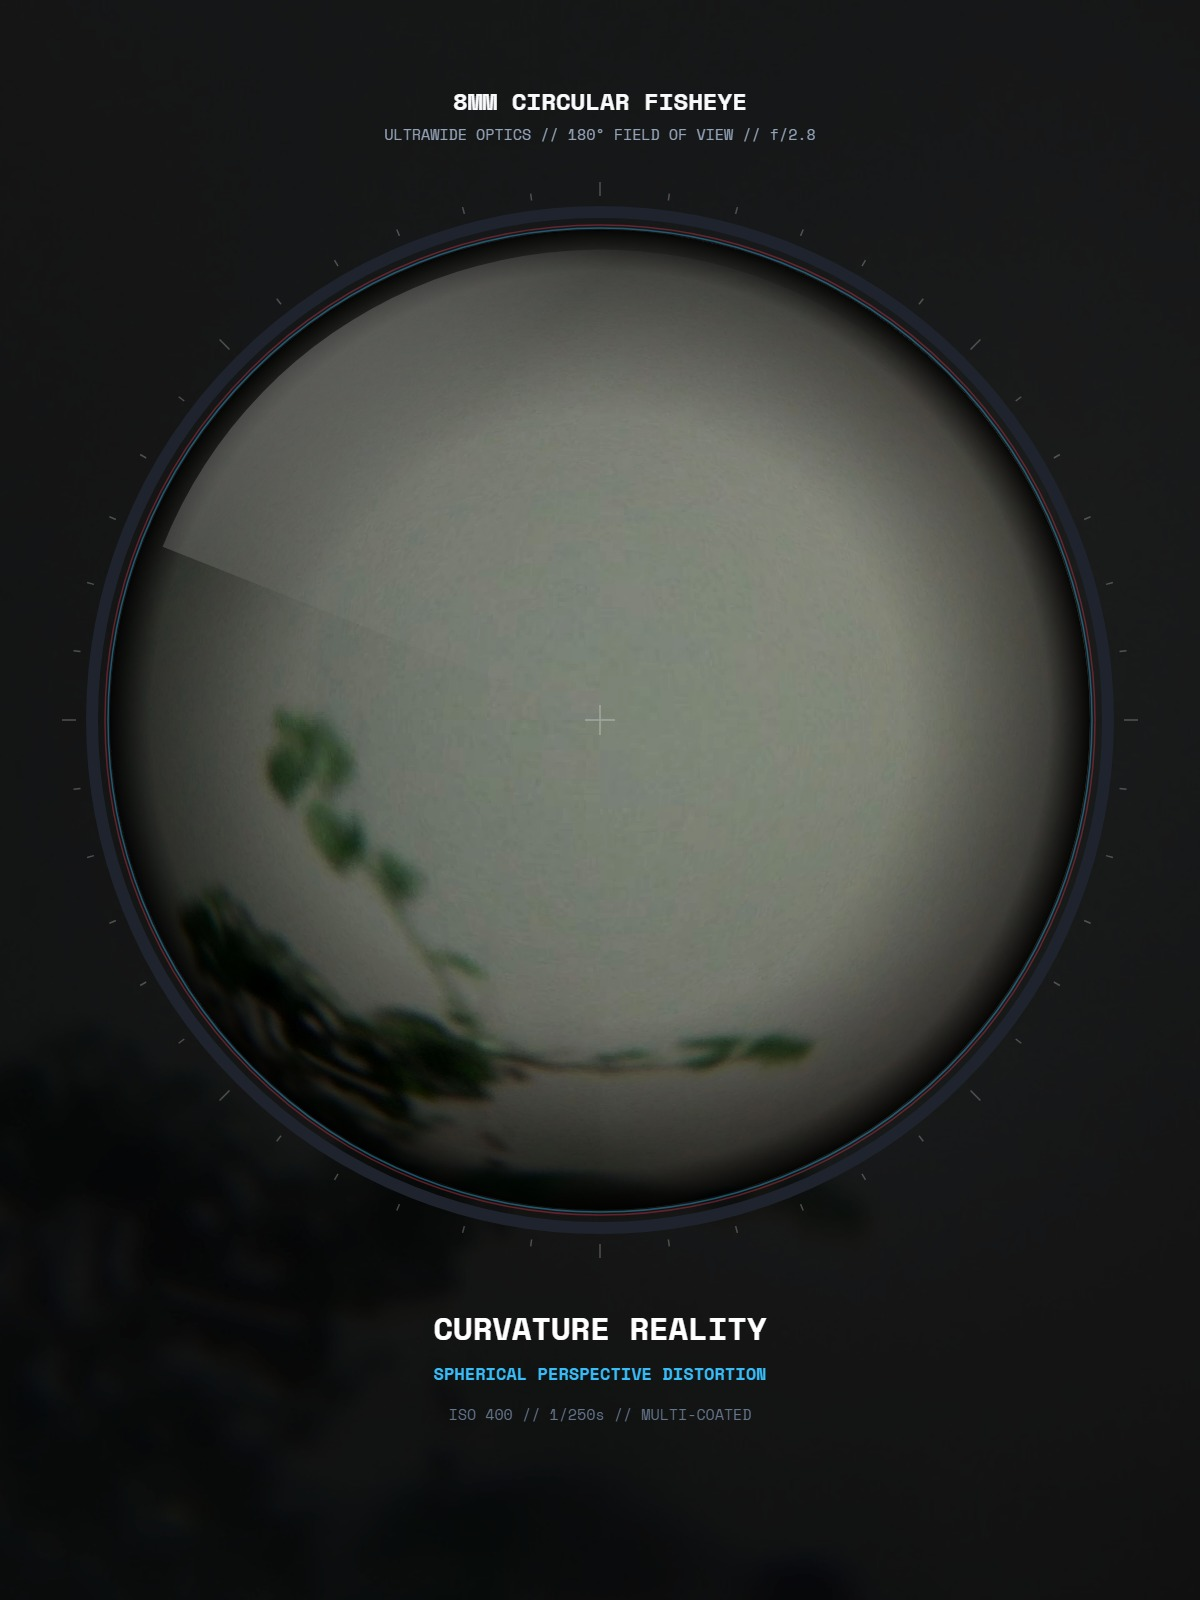
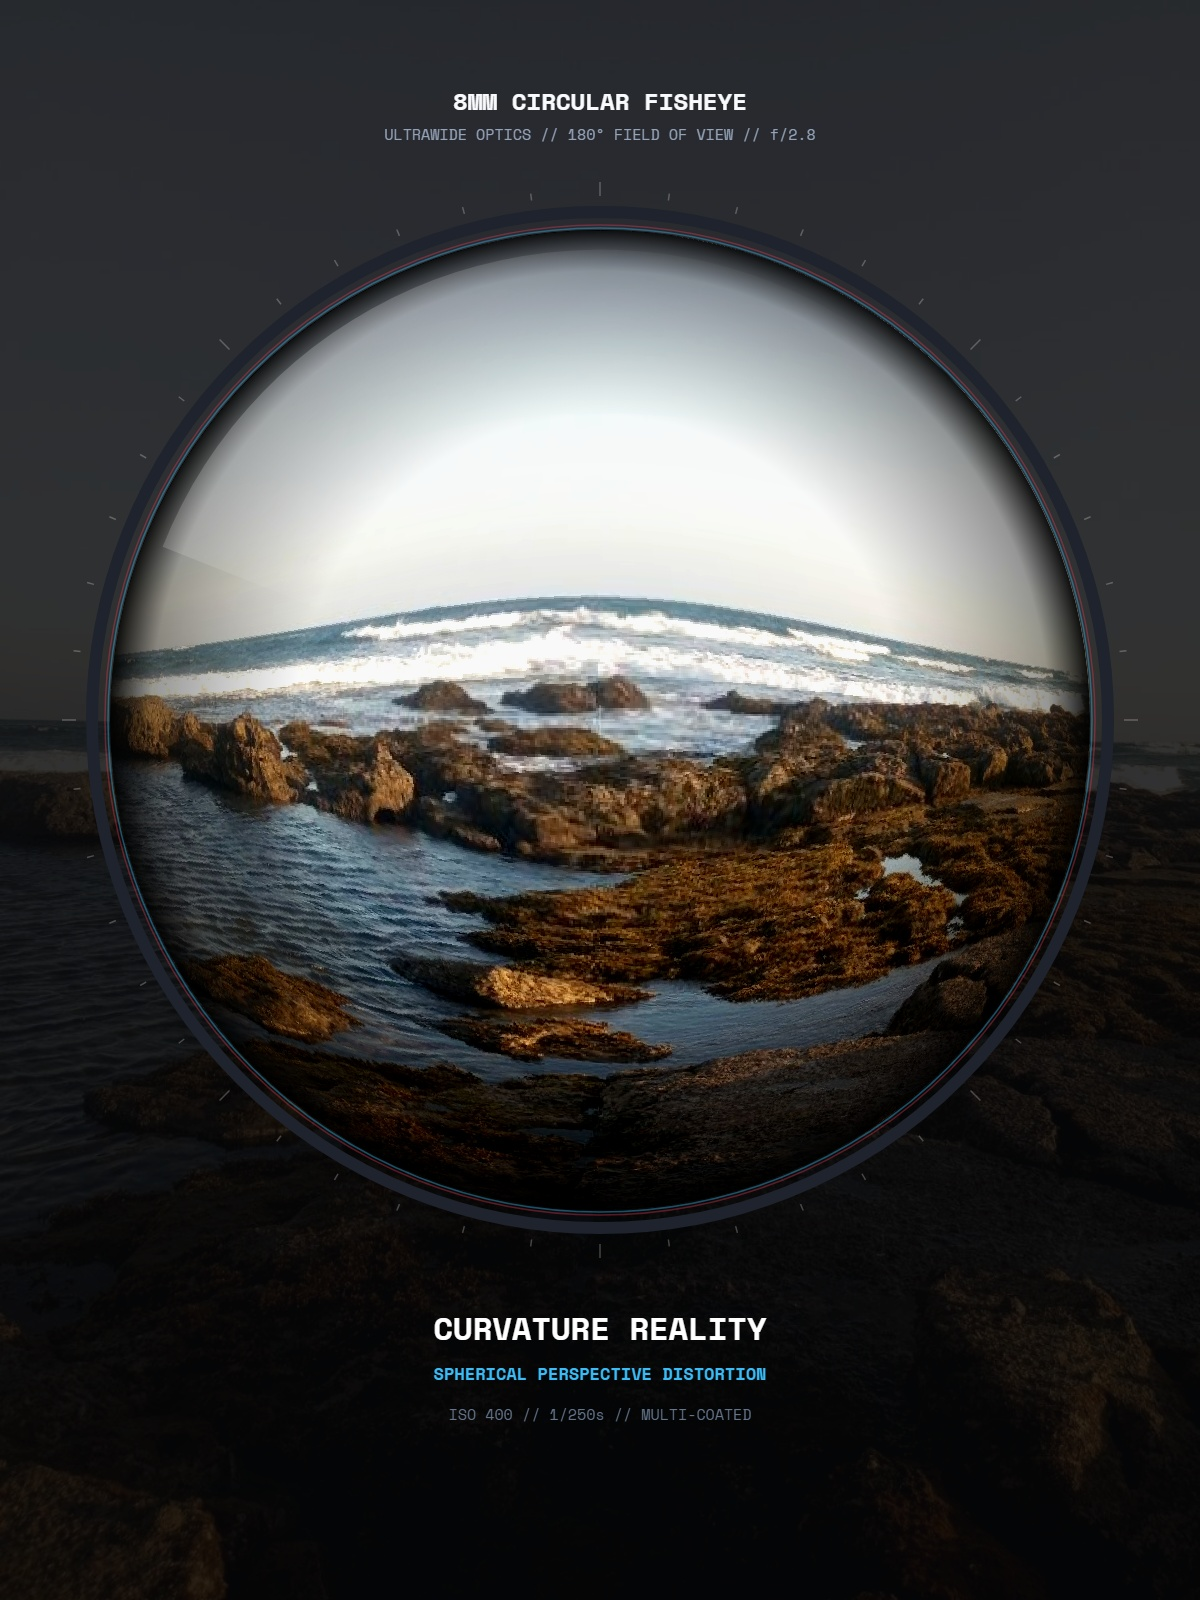
feat(fisheye): update sample preset and synthesize reference artwork with user original coastal photography

diff --git a/src/features/templates/template_samples.js b/src/features/templates/template_samples.js
@@ -45,7 +45,7 @@ export const TEMPLATE_SAMPLES = {
     date: 'LAT: 35.6762 // LNG: 139.6503'
   },
   fisheye: {
-    src: 'assets/ref_6899_reference.jpg',
+    src: 'assets/user_samples/photo_rocky_tide.jpg',
     caption: 'CURVATURE REALITY',
     subtitle: 'SPHERICAL PERSPECTIVE DISTORTION',
     date: 'ISO 400 // 1/250s // MULTI-COATED'
